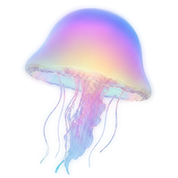
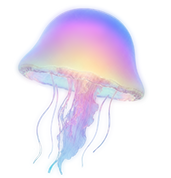
fix(editor): crop jellyfish asset fringe

diff --git a/apps/web/src/components/album/editor-v2/mobile/jellyfish-asset.test.ts b/apps/web/src/components/album/editor-v2/mobile/jellyfish-asset.test.ts
@@ -1,0 +1,13 @@
+import assert from 'node:assert/strict';
+import { readFileSync } from 'node:fs';
+import { join } from 'node:path';
+import { test } from 'node:test';
+
+test('共用小水母素材裁掉左侧 7px 白边,并保留 RGBA 透明通道', () => {
+  const png = readFileSync(join(process.cwd(), 'public', 'jellyfish-icon.png'));
+
+  assert.equal(png.toString('ascii', 1, 4), 'PNG', '素材必须保持 PNG');
+  assert.equal(png.readUInt32BE(16), 171, '左侧 7px 白边应从原 178px 画布裁掉');
+  assert.equal(png.readUInt32BE(20), 178, '只裁左边,不改变水母高度');
+  assert.equal(png[25], 6, '素材必须保持 RGBA,不能把透明背景烘成白底');
+});
